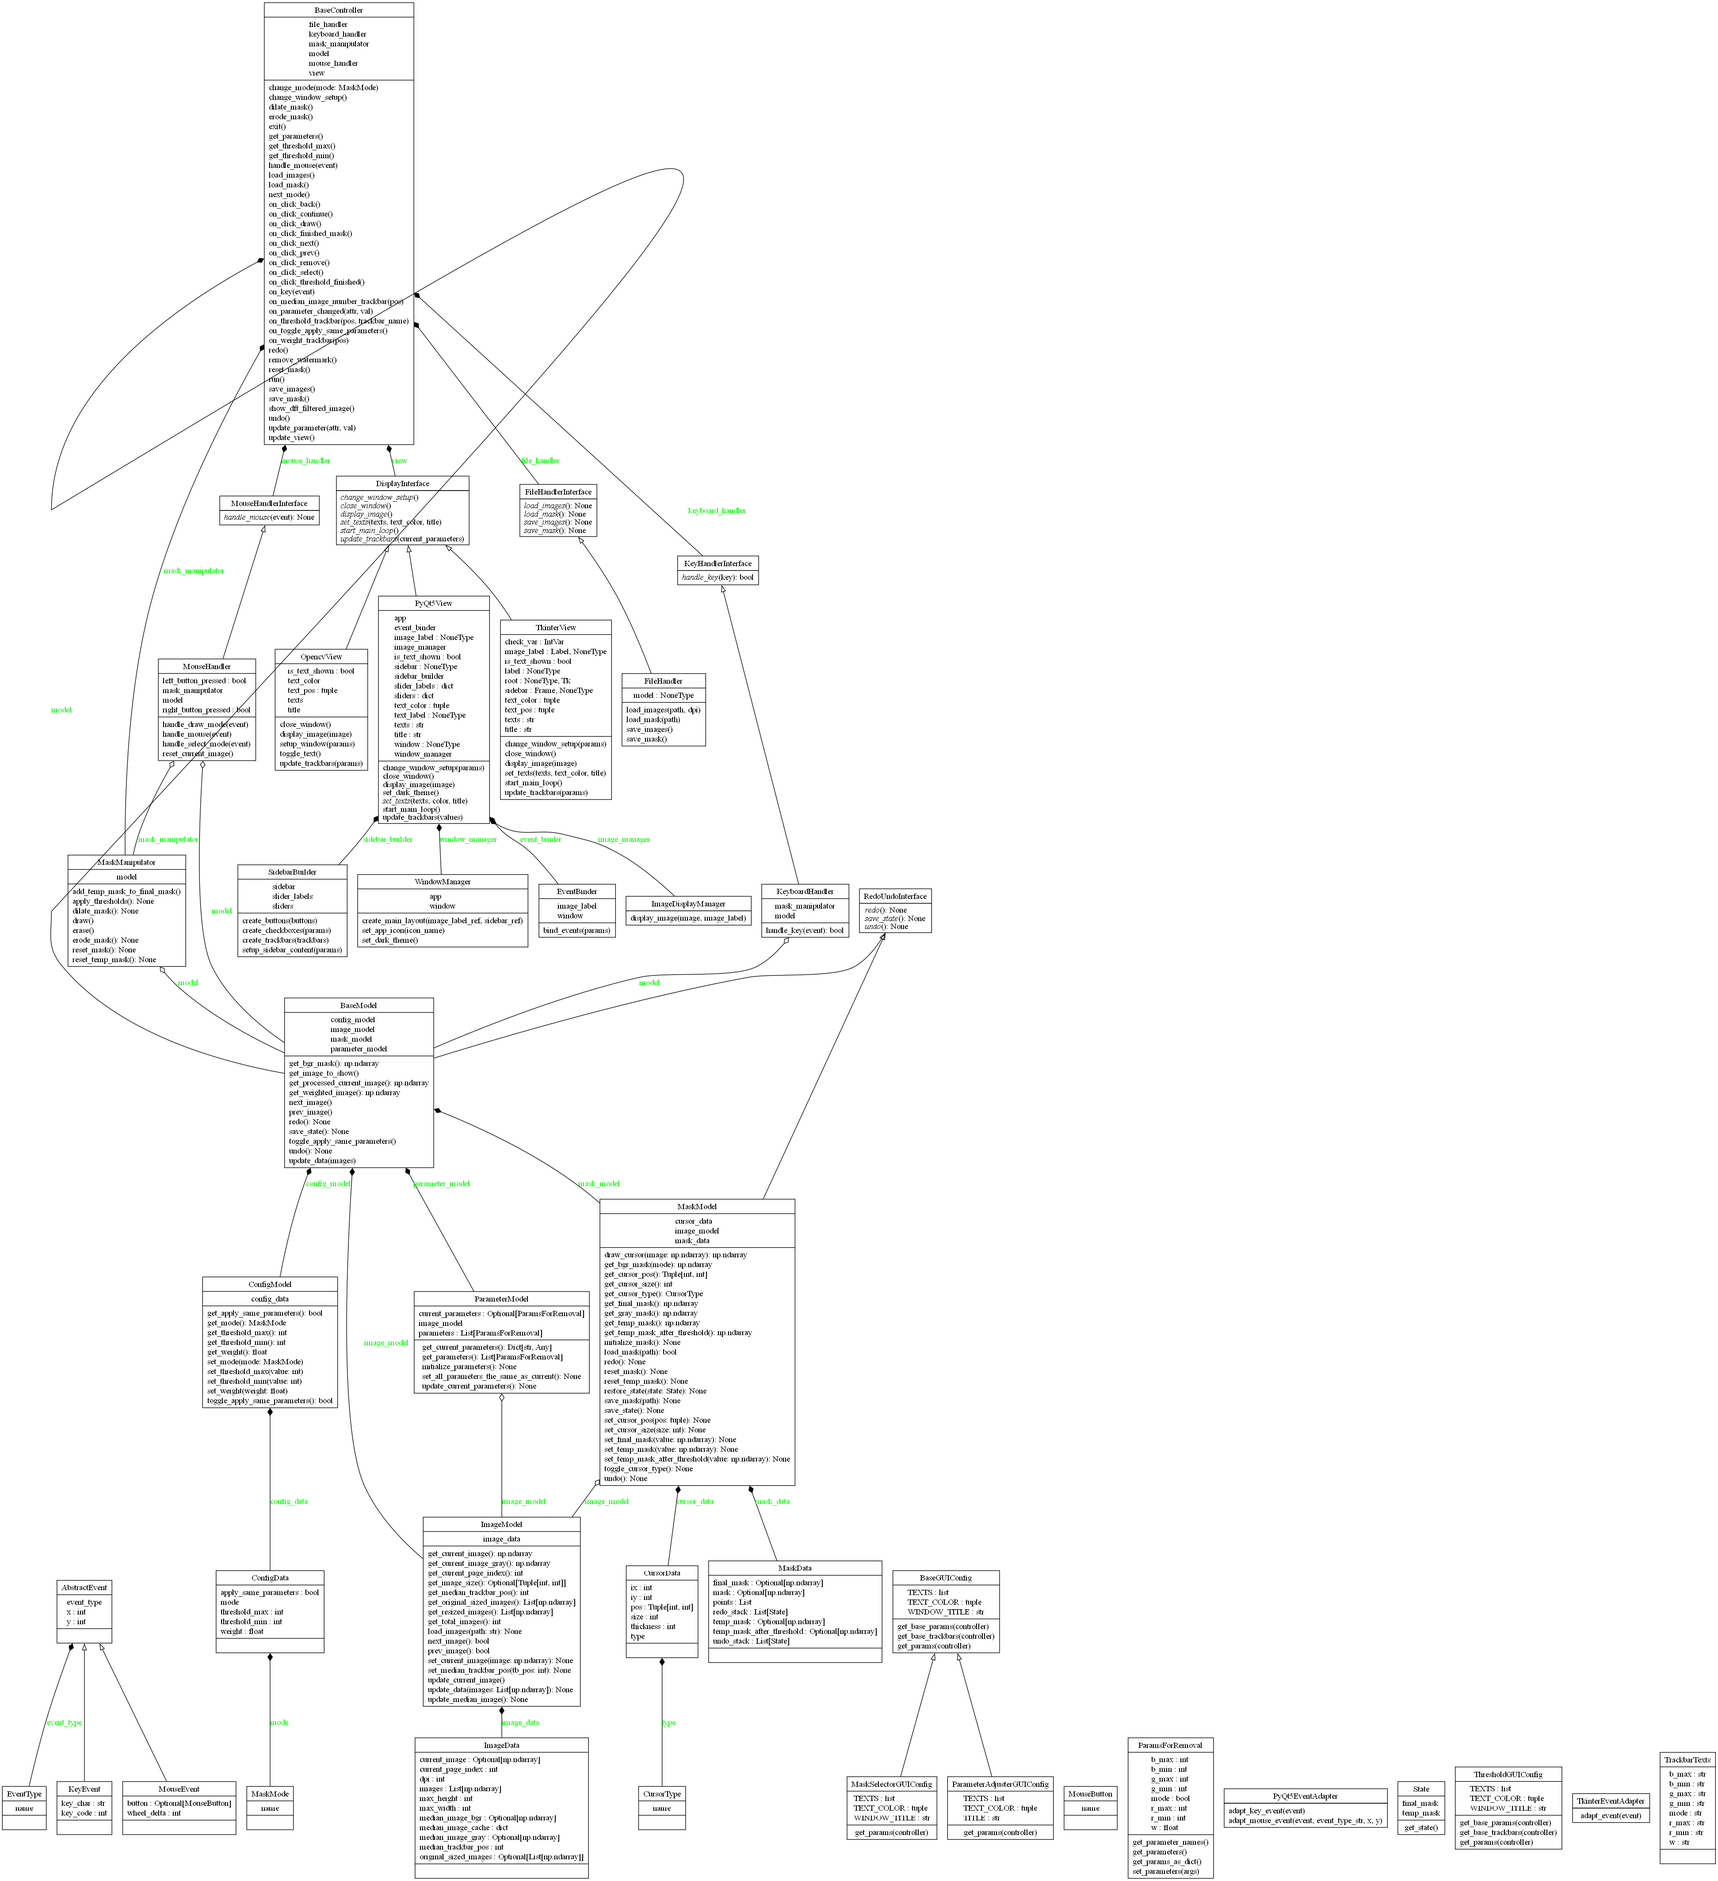
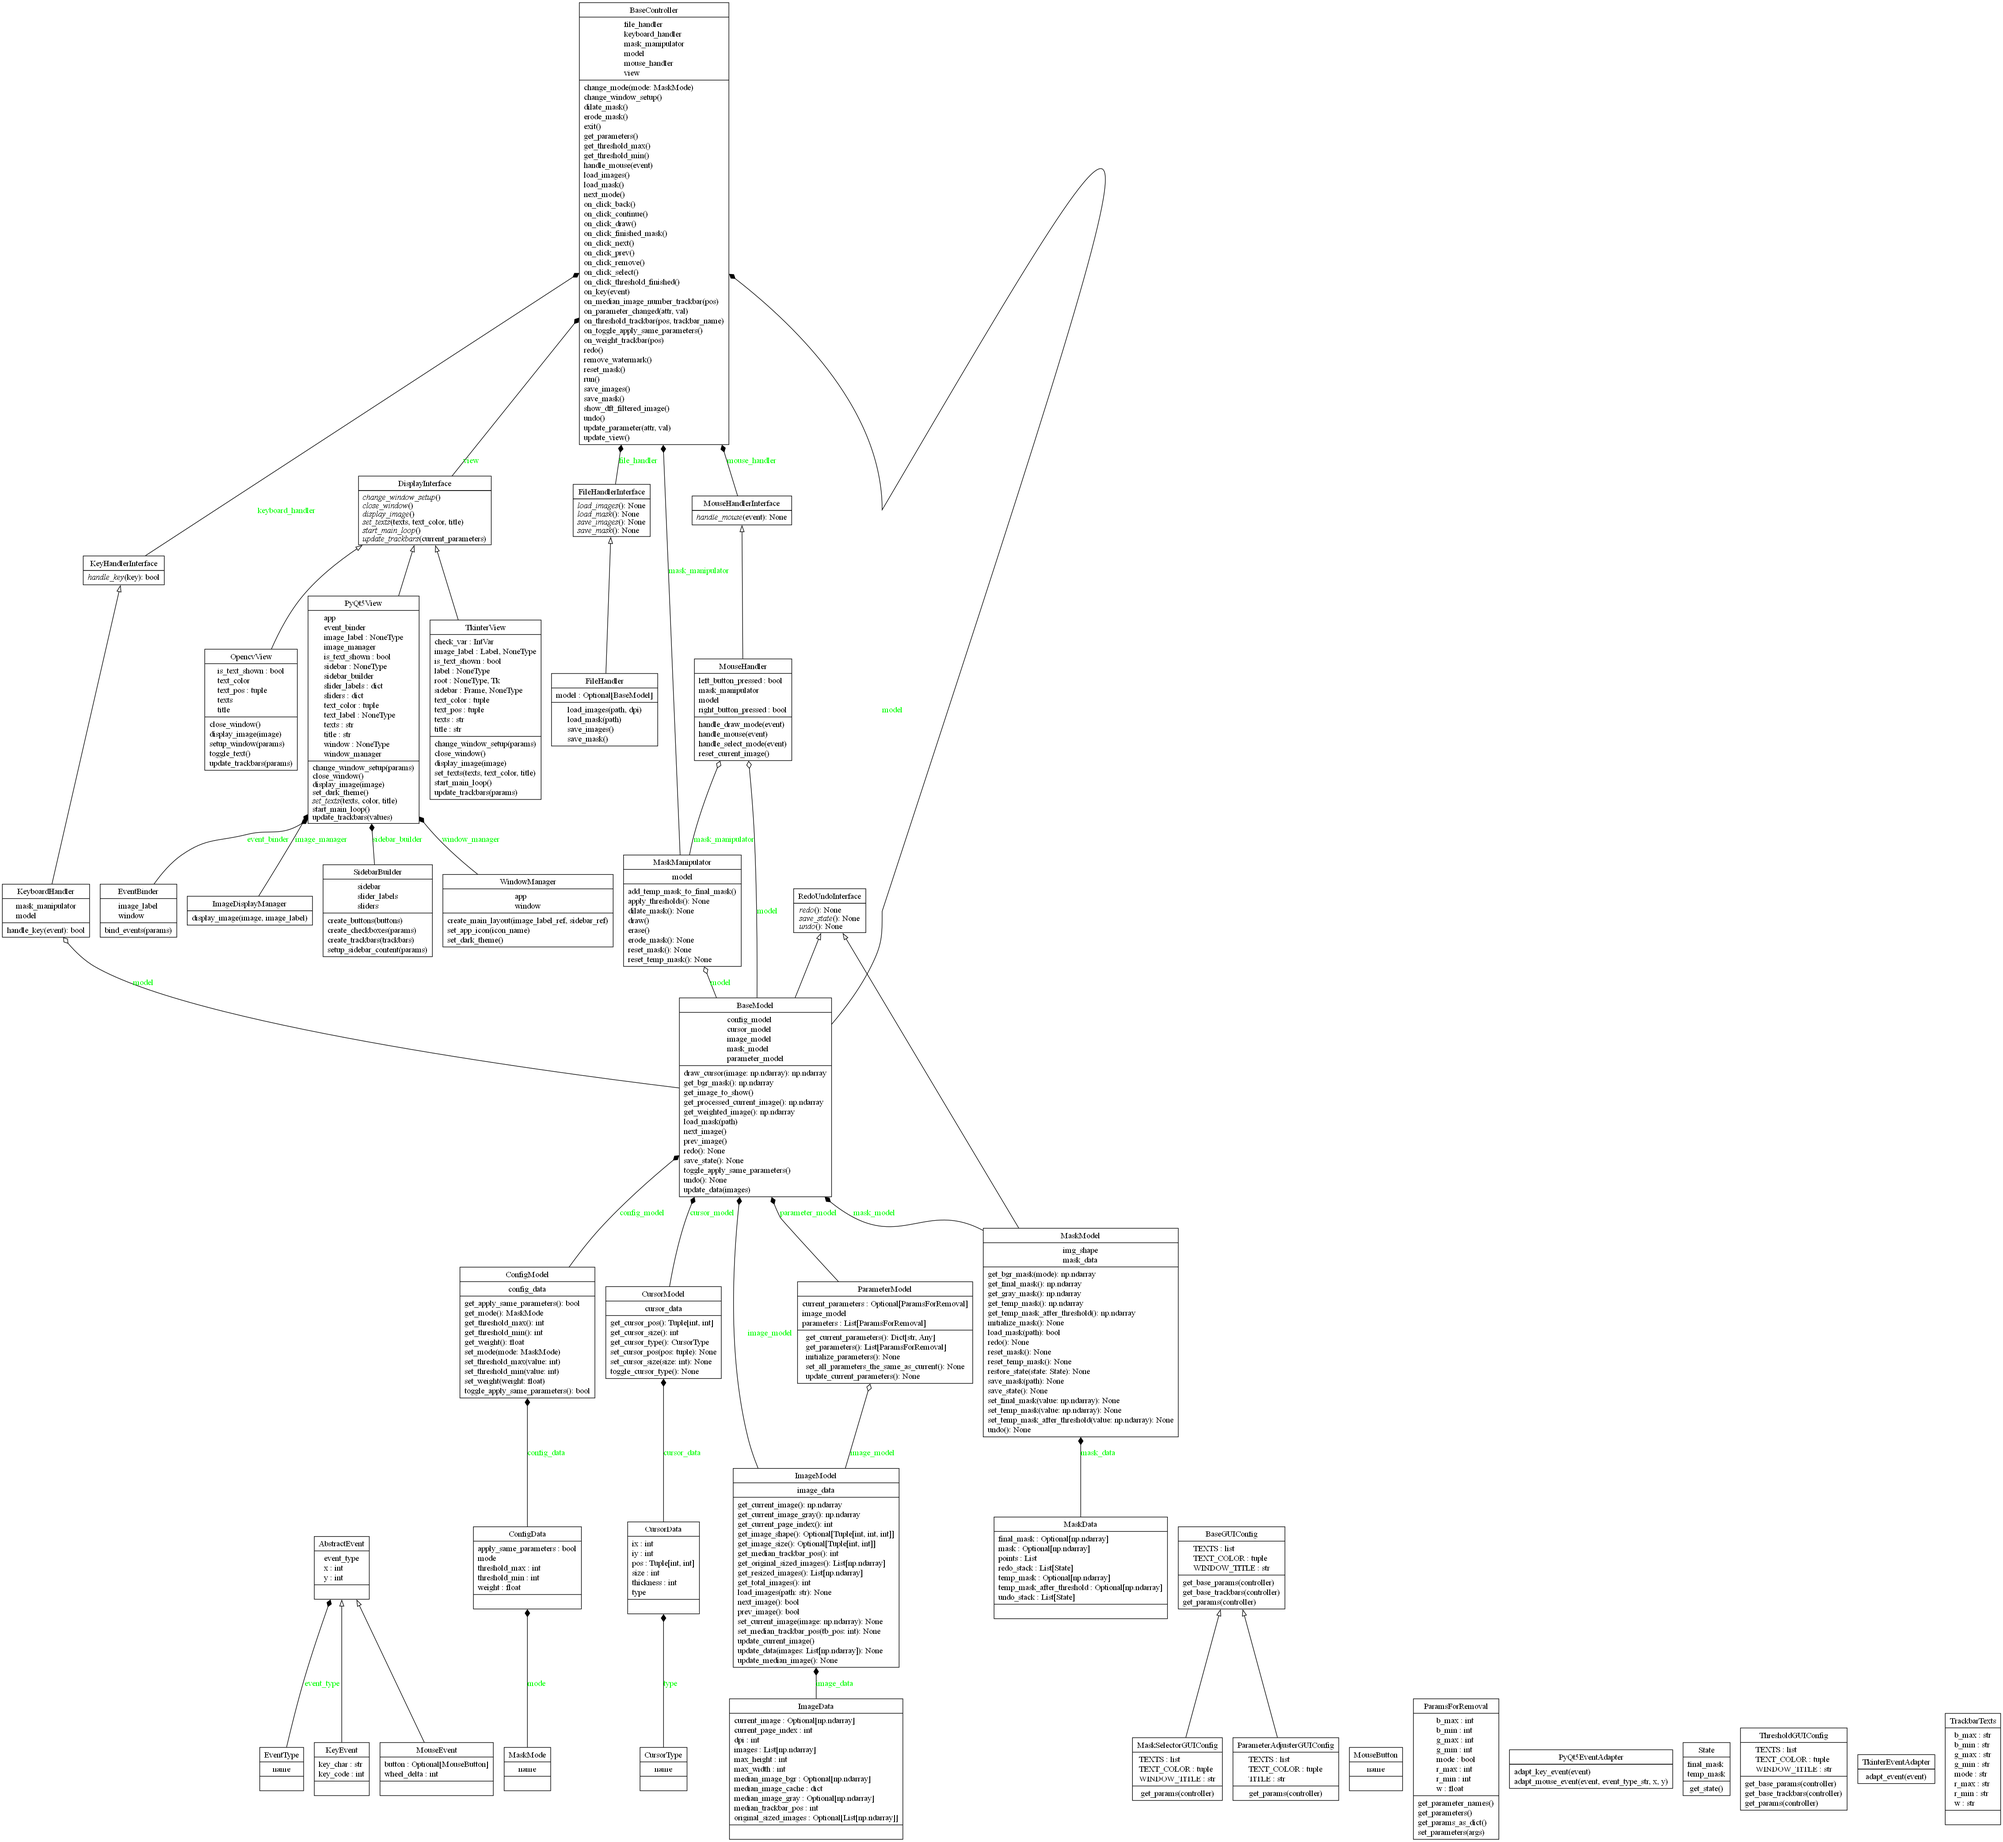
refactor: update event handlers to utilize cursor_model for improved cursor management

diff --git a/modules/controller/event_handlers.py b/modules/controller/event_handlers.py
@@ -44,11 +44,11 @@ class MouseHandler(MouseHandlerInterface):
 
         if event.event_type == EventType.MOUSE_WHEEL:
             if event.wheel_delta > 0:
-                self.model.mask_model.cursor_data.size = min(self.model.mask_model.cursor_data.size + 1, 50)
+                self.model.cursor_model.cursor_data.size = min(self.model.cursor_model.cursor_data.size + 1, 50)
             else:
-                self.model.mask_model.cursor_data.size = max(self.model.mask_model.cursor_data.size - 1, 1)
+                self.model.cursor_model.cursor_data.size = max(self.model.cursor_model.cursor_data.size - 1, 1)
 
-        self.model.mask_model.cursor_data.pos = (x, y)
+        self.model.cursor_model.cursor_data.pos = (x, y)
 
     def handle_select_mode(self, event):
         x, y = event.x, event.y
@@ -58,15 +58,15 @@ class MouseHandler(MouseHandlerInterface):
 
             if event.button == MouseButton.LEFT:
                 self.left_button_pressed = True
-                self.model.mask_model.cursor_data.ix, self.model.mask_model.cursor_data.iy = x, y
+                self.model.cursor_model.cursor_data.ix, self.model.cursor_model.cursor_data.iy = x, y
                 self.model.mask_model.mask_data.points.append((x, y))
 
         elif event.event_type == EventType.MOUSE_MOVE:
             if self.left_button_pressed:
                 cv2.line(self.model.mask_model.mask_data.temp_mask,
-                         (self.model.mask_model.cursor_data.ix, self.model.mask_model.cursor_data.iy),
+                         (self.model.cursor_model.cursor_data.ix, self.model.cursor_model.cursor_data.iy),
                          (x, y), (255, 255, 255), 2)
-                self.model.mask_model.cursor_data.ix, self.model.mask_model.cursor_data.iy = x, y
+                self.model.cursor_model.cursor_data.ix, self.model.cursor_model.cursor_data.iy = x, y
                 self.model.mask_model.mask_data.points.append((x, y))
 
         elif event.event_type == EventType.MOUSE_RELEASE:
@@ -104,7 +104,7 @@ class KeyboardHandler(KeyHandlerInterface):
         elif key == ord('c'):
             if self.model.config_model.get_mode() != MaskMode.DRAW:
                 self.model.config_model.set_mode(MaskMode.DRAW)
-            self.model.mask_model.toggle_cursor_type()
+            self.model.cursor_model.toggle_cursor_type()
         elif key == ord('s'):
             if self.model.config_model.get_mode() != MaskMode.SELECT:
                 self.model.config_model.set_mode(MaskMode.SELECT)
